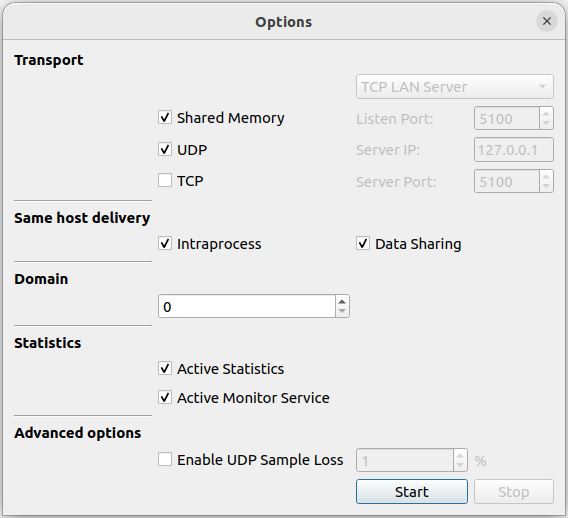
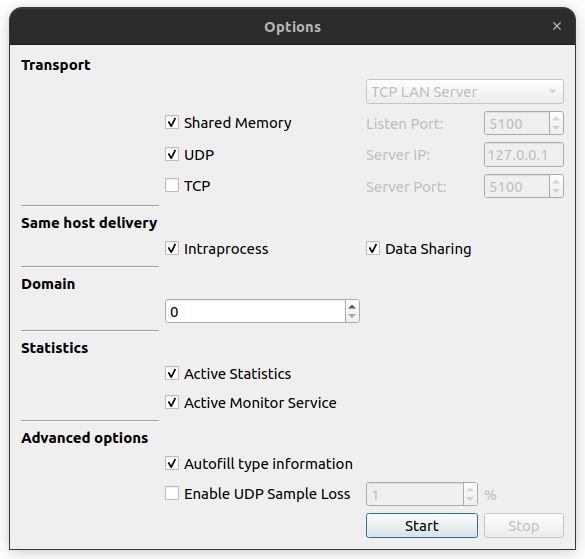
Refs #20306: Add autofill type information documentation

diff --git a/docs/first_steps/first_steps.rst b/docs/first_steps/first_steps.rst
@@ -194,6 +194,8 @@ The following image shows the Options Menu.
 
 - **Advanced options:**
 
+  - **Autofill type information:** Whether the discovery packages automatically propagate the type information.
+
   - **Enable UDP Sample Loss:** A percentage of samples sent by the publisher is intentionally lost.
     This feature allows the user to simulate network conditions where a certain amount of data loss occurs.
     The percentage of samples to be lost can be configured by the user.
